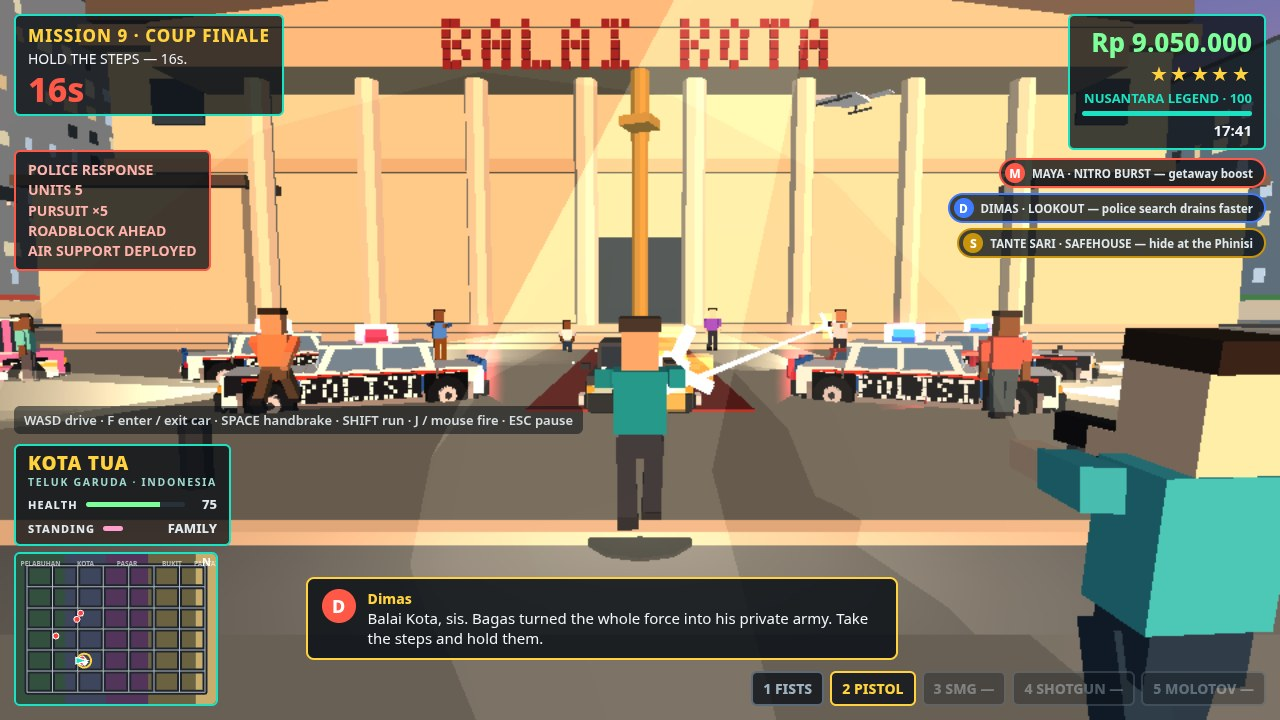
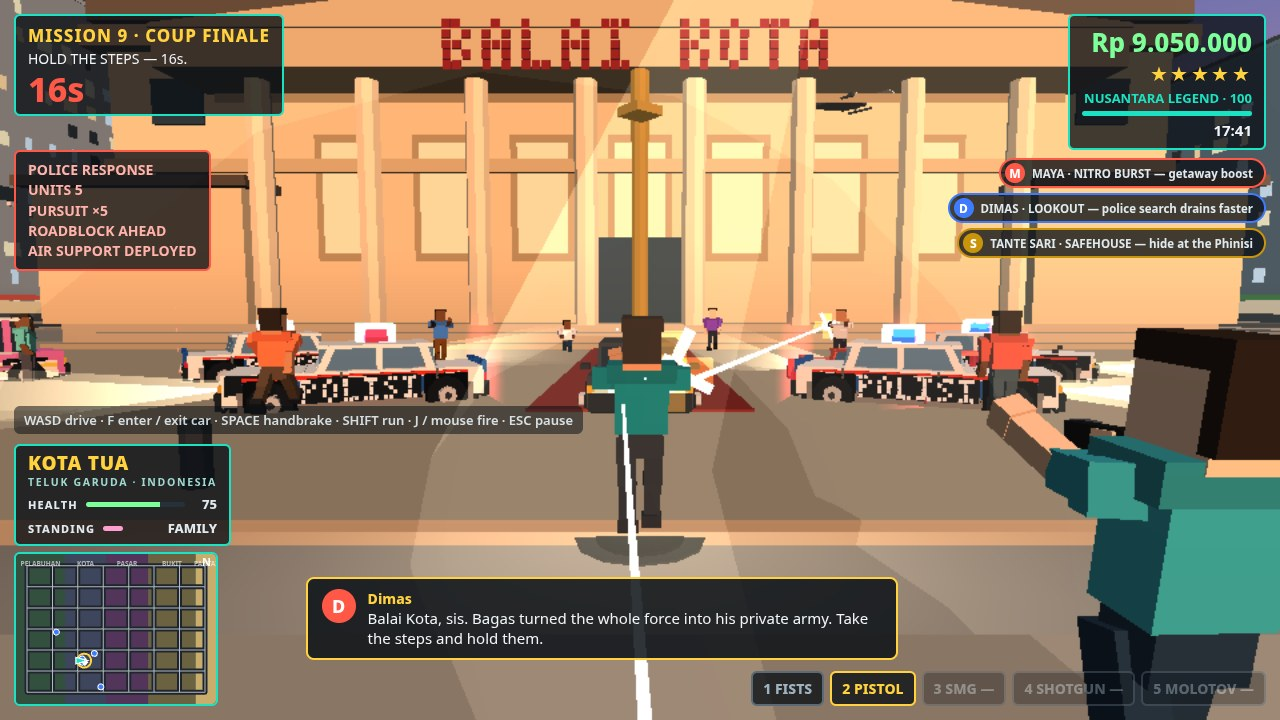
Fidelity upgrade: segmented-limb character animation (knee/elbow gait, idle breathing, recoil + hit-flinch), hemisphere/wrap lighting + ground-contact gradient in shader, two-tier blob shadows for figures and vehicles, facade depth (building plinths/cornices, Kopdes pilasters, SPPG window frames, Ba

diff --git a/game/src/people3d.js b/game/src/people3d.js
@@ -56,25 +56,42 @@ var CoralPeople = (function () {
     var body = new Baker();
     body.box(pants, { x: 0, y: 0.92, z: 0, w: 0.36, h: 0.22, d: 0.22 });                 // pelvis
     body.box(shirt, { x: 0, y: 1.28, z: 0, w: 0.44, h: 0.52, d: 0.26 });                 // torso
+    body.box(shadeRGB(hexRGB(shirt), 0.8), { x: 0, y: 1.52, z: 0, w: 0.56, h: 0.15, d: 0.29 }); // shoulder bar
+    body.box(shadeRGB(hexRGB(pants), 0.62), { x: 0, y: 1.05, z: 0, w: 0.38, h: 0.07, d: 0.24 }); // belt line
+    body.box(skin, { x: 0, y: 1.585, z: 0, w: 0.15, h: 0.09, d: 0.15 });                 // neck
     body.box(skin, { x: 0, y: 1.72, z: 0, w: 0.30, h: 0.34, d: 0.30 });                  // head
     body.box(0x2a2019, { x: 0, y: 1.92, z: 0.02, w: 0.33, h: 0.10, d: 0.33 });           // hair cap
-    var armB = new Baker();
-    armB.box(shirt, { x: 0, y: -0.16, z: 0, w: 0.13, h: 0.34, d: 0.15 });               // upper arm (sleeve)
-    armB.box(skin, { x: 0, y: -0.48, z: 0, w: 0.11, h: 0.32, d: 0.12 });                // forearm + hand
-    var legB = new Baker();
-    legB.box(pants, { x: 0, y: -0.34, z: 0, w: 0.16, h: 0.68, d: 0.18 });               // leg
-    legB.box(0x1c1e22, { x: 0, y: -0.70, z: -0.03, w: 0.17, h: 0.10, d: 0.27 });         // shoe
-    /* Pistol, baked along the arm's local -y (grip at the hand end)
-       so parenting it to the arm matrix points it wherever the arm
-       points. Only drawn while a figure aims. */
+    body.box(0x2a2019, { x: 0, y: 1.76, z: 0.145, w: 0.31, h: 0.30, d: 0.06 });          // hair back
+    /* Segmented limbs (fidelity round): upper arm pivots at the
+       shoulder, forearm at the elbow (0.30 below), thigh at the hip,
+       shin at the knee (0.40 below) — so walk cycles bend knees and
+       elbows instead of swinging stiff boards. */
+    var upArmB = new Baker();
+    upArmB.box(shirt, { x: 0, y: -0.02, z: 0, w: 0.17, h: 0.13, d: 0.18 });             // shoulder cap
+    upArmB.box(shirt, { x: 0, y: -0.17, z: 0, w: 0.13, h: 0.30, d: 0.15 });             // upper arm (sleeve)
+    var foreB = new Baker();
+    foreB.box(skin, { x: 0, y: -0.13, z: 0, w: 0.11, h: 0.26, d: 0.12 });               // forearm
+    foreB.box(skin, { x: 0, y: -0.30, z: -0.01, w: 0.12, h: 0.10, d: 0.13 });           // hand
+    var thighB = new Baker();
+    thighB.box(pants, { x: 0, y: -0.20, z: 0, w: 0.16, h: 0.40, d: 0.18 });             // thigh
+    var shinB = new Baker();
+    shinB.box(shadeRGB(hexRGB(pants), 0.92), { x: 0, y: -0.14, z: 0, w: 0.14, h: 0.28, d: 0.16 }); // shin
+    shinB.box(0x1c1e22, { x: 0, y: -0.33, z: -0.03, w: 0.17, h: 0.10, d: 0.27 });        // shoe
+    /* Pistol, baked along the FOREARM's local -y (grip at the hand
+       end) so parenting it to the forearm matrix points it wherever
+       the hand points. Only drawn while a figure aims. */
     var gunB = new Baker();
-    gunB.box(0x17181c, { x: 0, y: -0.66, z: -0.02, w: 0.09, h: 0.30, d: 0.13 });         // slide/barrel along arm dir
-    gunB.box(0x232428, { x: 0, y: -0.52, z: 0.05, w: 0.08, h: 0.16, d: 0.09 });          // grip
-    f = { body: body.build(gl), arm: armB.build(gl), leg: legB.build(gl), gun: gunB.build(gl) };
+    gunB.box(0x17181c, { x: 0, y: -0.34, z: -0.02, w: 0.09, h: 0.30, d: 0.13 });         // slide/barrel along arm dir
+    gunB.box(0x232428, { x: 0, y: -0.20, z: 0.05, w: 0.08, h: 0.16, d: 0.09 });          // grip
+    f = {
+      body: body.build(gl), upperArm: upArmB.build(gl), foreArm: foreB.build(gl),
+      thigh: thighB.build(gl), shin: shinB.build(gl), gun: gunB.build(gl)
+    };
     figureCache[key] = f;
-    if (!shadowMesh) { // one flat dark disc, reused under every figure
+    if (!shadowMesh) { // two-tier blob: soft outer ring + dark contact core, one mesh
       var sb = new Baker();
-      sb.cylinder(0x0b0d10, { x: 0, y: 0, z: 0, r: 0.46, h: 0.03, seg: 10 });
+      sb.cylinder(0x1a1c20, { x: 0, y: 0, z: 0, r: 0.56, h: 0.02, seg: 12 });
+      sb.cylinder(0x08090b, { x: 0, y: 0.006, z: 0, r: 0.38, h: 0.03, seg: 12 });
       shadowMesh = sb.build(gl);
     }
     return f;
@@ -83,6 +100,7 @@ var CoralPeople = (function () {
   function createPerson(gl, colors, x, z, heading) {
     return {
       x: x, z: z, heading: heading || 0, speed: 0, walkPhase: Math.random() * 6.28,
+      idlePhase: Math.random() * 6.28, recoilT: -1e9, flinchT: -1e9,
       vx: 0, vz: 0, down: false, downTime: 0,
       pose: 'stand', aimTarget: null, armed: false,
       parts: figureFor(gl, colors.shirt, colors.pants, colors.skin)
@@ -169,6 +187,7 @@ var CoralPeople = (function () {
        combat behaviour changes. */
     var firingNow = !!(window.CoralCombat && CoralCombat.firing);
     if (firingNow) {
+      p.recoilT = performance.now(); // render-layer recoil pulse while the trigger is held
       if (p.pose !== 'aim') { p._poseBeforeAim = p.pose; p.pose = 'aim'; }
       p._autoAim = true; p.armed = true;
       p.aimTarget = { x: p.x - Math.sin(p.heading) * 24, z: p.z - Math.cos(p.heading) * 24, y: 1.3 };
@@ -314,6 +333,23 @@ var CoralPeople = (function () {
   }
 
   /* ---------------------------------------------------------------- draw */
+  var ELBOW_Y = -0.30, KNEE_Y = -0.40; // segment joint offsets (see figureFor)
+  /* One arm chain: upper arm at the shoulder, forearm at the elbow.
+     Returns the forearm matrix (the gun parents to it). */
+  function drawArm(R, p, bodyBase, side, shX, shY, upRx, upYaw, upRz, foreRx, foreRz) {
+    var up = Mat4.multiply(bodyBase, Mat4.compose(side * shX, shY, 0, upRx, upYaw || 0, upRz || 0));
+    R.draw(p.parts.upperArm, up);
+    var fore = Mat4.multiply(up, Mat4.compose(0, ELBOW_Y, 0, foreRx || 0, 0, foreRz || 0));
+    R.draw(p.parts.foreArm, fore);
+    return fore;
+  }
+  /* One leg chain: thigh at the hip, shin at the knee. kneeBend is a
+     positive backward bend of the shin relative to the thigh. */
+  function drawLeg(R, p, base, side, hipX, hipY, thighRx, kneeBend, rz) {
+    var th = Mat4.multiply(base, Mat4.compose(side * hipX, hipY, 0, thighRx, 0, rz || 0));
+    R.draw(p.parts.thigh, th);
+    R.draw(p.parts.shin, Mat4.multiply(th, Mat4.compose(0, KNEE_Y, 0, -(kneeBend || 0), 0, 0)));
+  }
   function drawFigure(R, p) {
     if (p.down) { // tipped over: whole figure pitched flat at ground level
       R.draw(p.parts.body, Mat4.compose(p.x, 0.28, p.z, Math.PI / 2 - 0.12, p.heading, 0));
@@ -326,6 +362,18 @@ var CoralPeople = (function () {
        combat marks shooters by setting both, staging may set either. */
     if (pose === 'stand' && p.aimTarget) pose = 'aim';
     var moving = p.speed > 0.1;
+    var nowMs = performance.now();
+    /* Idle life: a standing figure breathes (slow torso pitch) and
+       shifts its weight (slow roll); phases are per-person so a crowd
+       never sways in lockstep. Amplitudes are small — life, not dance. */
+    var idle = moving ? 0 : 1;
+    var breathe = Math.sin(nowMs * 0.0016 + (p.idlePhase || 0)) * idle;
+    var sway = Math.sin(nowMs * 0.0007 + (p.idlePhase || 0) * 1.7) * idle;
+    /* Recoil / hit-flinch pulses: timestamps set by combat + the
+       player update; each is a fast exponential kick in the render
+       layer only (no state, no logic reads them back). */
+    var recoil = Math.max(0, 1 - (nowMs - (p.recoilT || -1e9)) / 170);
+    var flinch = Math.max(0, 1 - (nowMs - (p.flinchT || -1e9)) / 240);
     var bob = moving ? Math.abs(Math.sin(p.walkPhase)) * 0.05 : 0;
     var swingAmp = (p.speed > 5 ? 0.85 : 0.55) * Math.min(1, p.speed / 2.5);
     if (pose === 'stride') swingAmp = Math.max(swingAmp, 0.8); // frozen mid-step, full split
@@ -335,10 +383,23 @@ var CoralPeople = (function () {
          the split at a readable minimum in the walkPhase direction. */
       swing = (swing < 0 ? -1 : 1) * 0.62;
     }
-    var torsoPitch = 0, torsoRoll = 0, torsoYaw = 0, drop = 0;
+    /* Per-leg gait: thigh swing + knee bend peaking mid-swing-through
+       (cos of the leg's own phase), so feet lift instead of skating. */
+    var phL = p.walkPhase, phR = p.walkPhase + Math.PI;
+    var ampN = Math.min(1, swingAmp / 0.55);
+    var thighL = Math.sin(phL) * swingAmp, thighR = Math.sin(phR) * swingAmp;
+    if (pose === 'stride' && !moving) { thighL = swing; thighR = -swing * 0.85; }
+    var kneeL = Math.max(0, -Math.cos(phL)) * 0.72 * ampN + 0.04;
+    var kneeR = Math.max(0, -Math.cos(phR)) * 0.72 * ampN + 0.04;
+    if (!moving && pose !== 'stride') { kneeL = 0.05; kneeR = 0.05; }
+    /* Forward lean grows with speed: runners pitch into the stride. */
+    var runLean = Math.min(0.16, Math.max(0, p.speed - 2) * 0.022);
+    var torsoPitch = runLean + breathe * 0.018, torsoRoll = sway * 0.022, torsoYaw = 0, drop = 0;
     if (pose === 'crouch') { torsoPitch = 0.42; drop = 0.36; }
     else if (pose === 'lean') { torsoRoll = 0.30; torsoPitch = 0.10; drop = 0.06; }
     else if (pose === 'aim') { torsoPitch = 0.07; }
+    torsoPitch += flinch * 0.38 - recoil * 0.05; // hit snap + gun kick
+    torsoRoll += flinch * 0.12;
     var base = Mat4.compose(p.x, bob - drop, p.z, 0, p.heading, 0);
     /* Torso + head twist/pitch/roll on their own base so the legs
        stay planted on the heading while the upper body works. */
@@ -350,35 +411,39 @@ var CoralPeople = (function () {
     if (pose === 'aim') {
       /* Both arms up, pistol two-handed: arm geometry hangs along
          -y, so rx = PI/2 + pitch points it forward along the aim
-         direction (see aimAngles). Right arm carries the gun; the
-         left arm rises to meet it, rolled inward. Legs brace: a
-         shooter mid-advance keeps its stride, a planted one splits
-         fore/aft slightly instead of standing to attention. */
-      var armRx = Math.PI / 2 + aim.pitch;
+         direction (see aimAngles). The right forearm carries the
+         gun near-straight (a shooter's locked wrist, kicked up a
+         touch by recoil); the left forearm folds across to support
+         it. Legs brace: a shooter mid-advance keeps its stride, a
+         planted one splits fore/aft with a bent rear knee. */
+      var armRx = Math.PI / 2 + aim.pitch - recoil * 0.15;
       var brace = moving ? swing : 0.22;
-      var rightArm = Mat4.multiply(bodyBase, Mat4.compose(shX, shY, 0, armRx, aim.relYaw * 0.55, -0.06));
-      R.draw(p.parts.arm, rightArm);
-      if (p.parts.gun) R.draw(p.parts.gun, rightArm);
-      R.draw(p.parts.arm, Mat4.multiply(bodyBase, Mat4.compose(-shX, shY, 0, armRx * 0.94, aim.relYaw * 0.55, 0.38)));
-      R.draw(p.parts.leg, Mat4.multiply(base, Mat4.compose(-hipX, hipY, 0, -brace, 0, 0.03)));
-      R.draw(p.parts.leg, Mat4.multiply(base, Mat4.compose(hipX, hipY, 0, brace * 0.8, 0, -0.03)));
+      var fore = drawArm(R, p, bodyBase, 1, shX, shY, armRx, aim.relYaw * 0.55, -0.06, -0.07 - recoil * 0.1, 0);
+      if (p.parts.gun) R.draw(p.parts.gun, fore);
+      drawArm(R, p, bodyBase, -1, shX, shY, armRx * 0.94, aim.relYaw * 0.55, 0.38, 0.62, -0.42);
+      drawLeg(R, p, base, -1, hipX, hipY, -brace, 0.10, 0.03);
+      drawLeg(R, p, base, 1, hipX, hipY, brace * 0.8, moving ? kneeR : 0.34, -0.03);
       return;
     }
     if (pose === 'crouch') {
-      /* Knees bent: legs shortened (scaled at the hip) and split,
-         arms low and forward-ready. */
-      R.draw(p.parts.arm, Mat4.multiply(bodyBase, Mat4.compose(-shX, shY, 0, 0.55, 0, 0.16)));
-      R.draw(p.parts.arm, Mat4.multiply(bodyBase, Mat4.compose(shX, shY, 0, 0.55, 0, -0.16)));
-      R.draw(p.parts.leg, Mat4.multiply(base, Mat4.compose(-hipX, hipY, 0, 0.52, 0, 0.05, 1, 0.72, 1)));
-      R.draw(p.parts.leg, Mat4.multiply(base, Mat4.compose(hipX, hipY, 0, -0.38, 0, -0.05, 1, 0.72, 1)));
+      /* Real crouch: thighs fold forward, shins fold back under
+         them (deep knee bend), body dropped; arms low, elbows bent,
+         hands forward-ready. */
+      drawArm(R, p, bodyBase, -1, shX, shY, 0.55, 0, 0.16, 0.5, 0);
+      drawArm(R, p, bodyBase, 1, shX, shY, 0.55, 0, -0.16, 0.5, 0);
+      drawLeg(R, p, base, -1, hipX, hipY, 0.95, 1.05, 0.05);
+      drawLeg(R, p, base, 1, hipX, hipY, -0.30, 0.85, -0.05);
       return;
     }
-    /* stand / stride / lean: the classic swing (arms counter-swing
-       the legs), unchanged for 'stand'. */
-    R.draw(p.parts.arm, Mat4.multiply(bodyBase, Mat4.compose(-shX, shY, 0, swing, 0, 0.07)));
-    R.draw(p.parts.arm, Mat4.multiply(bodyBase, Mat4.compose(shX, shY, 0, -swing, 0, -0.07)));
-    R.draw(p.parts.leg, Mat4.multiply(base, Mat4.compose(-hipX, hipY, 0, -swing, 0, 0)));
-    R.draw(p.parts.leg, Mat4.multiply(base, Mat4.compose(hipX, hipY, 0, swing, 0, 0)));
+    /* stand / stride / lean: arms counter-swing the legs with a
+       natural elbow bend that deepens as the arm swings back;
+       a flinch throws both forearms up. */
+    var elbL = 0.28 + Math.max(0, -Math.sin(phL)) * 0.3 + flinch * 0.7;
+    var elbR = 0.28 + Math.max(0, -Math.sin(phR)) * 0.3 + flinch * 0.7;
+    drawArm(R, p, bodyBase, -1, shX, shY, swing + breathe * 0.03, 0, 0.07 + sway * 0.02 + flinch * 0.3, elbL, 0);
+    drawArm(R, p, bodyBase, 1, shX, shY, -swing - breathe * 0.03, 0, -0.07 - sway * 0.02 - flinch * 0.3, elbR, 0);
+    drawLeg(R, p, base, -1, hipX, hipY, -thighL, kneeL, 0);
+    drawLeg(R, p, base, 1, hipX, hipY, -thighR, kneeR, 0);
   }
   function draw(R, person) { drawFigure(R, person); }
   function drawCrowd(R, crowd, camX, camZ) {

diff --git a/game/src/city3d.js b/game/src/city3d.js
@@ -244,6 +244,8 @@ function bakeHeliInto(b, colorHex) {
   b.box(col, { x: 0, y: 0, z: 0.3, w: 1.7, h: 1.55, d: 3.1, top: shadeRGB(hexRGB(col), 1.07) });
   b.prism(col, { x: 0, y: -0.1, z: -1.95, w: 1.55, h: 1.15, d: 1.1, h2: 0.35 });
   b.panel(glass, { x: 0, y: 0.28, z: -2.42, w: 1.3, h: 0.78, d: 0.08, rx: -0.25 });
+  b.panel(col, { x: 0, y: 0.28, z: -2.44, w: 0.09, h: 0.8, d: 0.06, rx: -0.25 }); // windscreen centre post
+  b.box(dark, { x: 0, y: -0.86, z: 0.3, w: 1.45, h: 0.22, d: 2.9 });              // dark belly pan (grounds the airframe)
   b.panel(0xff7847, { x: 0, y: -0.45, z: -0.9, w: 1.72, h: 0.3, d: 1.9 }); // coral cheatline
   b.box(dark, { x: 0, y: 0.12, z: 3.6, w: 0.34, h: 0.34, d: 3.6 });          // tail boom
   b.panel(col, { x: 0, y: 0.55, z: 5.35, w: 0.1, h: 1.15, d: 0.62 });        // tail fin
@@ -558,6 +560,12 @@ function buildCity(gl) {
     var wall = pick(pal.walls);
     var b = bk(cx, cz);
     b.box(wall, { x: cx, y: h / 2, z: cz, w: w, h: h, d: d, top: pal.roof });
+    /* Facade depth (fidelity round): a darker PLINTH band proud of
+       the walls grounds the mass and reads as a shadow gap at street
+       level; a CORNICE ledge just under the roofline throws a hard
+       horizontal shade line that separates wall from roof at range. */
+    b.box(shadeRGB(hexRGB(wall), 0.52), { x: cx, y: 0.55, z: cz, w: w + 0.35, h: 1.1, d: d + 0.35, top: shadeRGB(hexRGB(wall), 0.68) });
+    b.box(shadeRGB(hexRGB(wall), 1.1), { x: cx, y: h - 0.28, z: cz, w: w + 0.3, h: 0.55, d: d + 0.3, top: pal.roof });
     // rooftop variation: parapet rim, water tank, or plant boxes
     var roofV = rnd();
     if (h >= 9 && roofV < 0.34) { // parapet rim + a tank or plant cluster
@@ -781,6 +789,17 @@ function buildCity(gl) {
       b.panel(0x7a1216, { x: cx - w / 2 - 0.28, y: 2.25, z: cz + oz + 0.7, w: 0.08, h: 0.18, d: 0.9 });
       b.panel(0x8f1a1a, { x: cx - w / 2 - 0.27, y: 1.8, z: cz + oz, w: 0.06, h: 2.7, d: 0.1 });
     });
+    /* Fidelity round: maroon pilaster strips in the gaps between
+       the red doors + a dark frame border behind each door, so the
+       flat white front breaks into bays with real depth; plus a low
+       contact-shadow strip where the wall meets the forecourt. */
+    [-6.6, -3.4, -0.2, 3.0, 6.2].forEach(function (oz) {
+      b.panel(0x6e3a34, { x: cx - w / 2 - 0.2, y: 1.95, z: cz + oz, w: 0.14, h: 3.3, d: 0.42 });
+    });
+    [-8.2, -5.0, -1.8, 1.4, 4.6].forEach(function (oz) {
+      b.panel(0x5d1512, { x: cx - w / 2 - 0.13, y: 1.8, z: cz + oz, w: 0.1, h: 3.15, d: 3.15 });
+    });
+    b.box(0x37312b, { x: cx - w / 2 - 0.45, y: 0.1, z: cz, w: 0.9, h: 0.2, d: d - 0.8 });
     // grey sign panel, south section: red house glyph + two-tone text.
     // F-B LEGIBILITY REBUILD: the old panel was 4.4 m wide with px 0.11-
     // 0.12 white letters on mid-grey 0x939aa1 — a smear at cover distance.
@@ -830,9 +849,19 @@ function buildCity(gl) {
     b.panel(BLUE, { x: cx, y: 2.3, z: cz + d / 2 + 0.1, w: w - 0.4, h: 4.6, d: 0.22 });
     // dark glass windows + centre door on the west face
     [-6.5, 3.4, 6.8].forEach(function (oz) {
+      /* Fidelity round: a white frame border proud of the wall but
+         recessed behind the glass, so each window reads as a framed
+         opening instead of a dark sticker on a flat wall. */
+      b.panel(0xe8ecec, { x: cx - w / 2 - 0.05, y: 2.0, z: cz + oz, w: 0.1, h: 1.74, d: 3.44 });
       b.panel(GLASS, { x: cx - w / 2 - 0.07, y: 2.0, z: cz + oz, w: 0.14, h: 1.5, d: 3.2 });
       b.panel(0xf5f7f5, { x: cx - w / 2 - 0.09, y: 2.0, z: cz + oz, w: 0.1, h: 1.5, d: 0.12 });
     });
+    // blue corner pilasters on the west face + a blue fascia trim
+    // under the eaves slab, tying the roof to the banded walls
+    [-d / 2 + 0.5, d / 2 - 0.5].forEach(function (oz) {
+      b.panel(BLUE, { x: cx - w / 2 - 0.09, y: 2.3, z: cz + oz, w: 0.18, h: 4.6, d: 0.55 });
+    });
+    b.panel(ROOFBLUE, { x: cx - w / 2 - 0.35, y: 4.82, z: cz, w: 0.14, h: 0.34, d: d + 1.6 });
     b.panel(GLASS, { x: cx - w / 2 - 0.07, y: 1.55, z: cz, w: 0.14, h: 2.5, d: 2.2 });
     // Z-free second line on the wall above the windows
     signText(b, 'SATUAN PELAYANAN', { x: cx - w / 2 - 0.2, y: 3.72, z: cz, nx: -1, nz: 0, px: 0.14, color: 0x145a9e, emis: 0.15, board: null });
@@ -1049,6 +1078,15 @@ function buildCity(gl) {
       b.cylinder(0xdfd2b2, { x: -186.8, y: 6.9, z: cz - 17.5 + co * 5, r: 0.55, h: 11.4, seg: 8 });
     }
     b.box(TRIM, { x: -186.8, y: 13.1, z: cz, w: 3.4, h: 1.6, d: 42 });
+    /* Fidelity round: recessed moulding panels on the west wall in
+       the bays between the columns + a shadow band directly under
+       the entablature, so the grand flat face gains panel depth and
+       a shade line instead of reading as one cream slab. */
+    for (var bp2 = 0; bp2 < 7; bp2++) {
+      b.panel(0x9a8a68, { x: -183.55, y: 7.6, z: cz - 15 + bp2 * 5, w: 0.1, h: 6.4, d: 3.3 });
+      b.panel(0xe6dcc0, { x: -183.6, y: 7.6, z: cz - 15 + bp2 * 5, w: 0.08, h: 5.6, d: 2.6 });
+    }
+    b.panel(0x8a7c5c, { x: -185.2, y: 12.15, z: cz, w: 0.12, h: 0.55, d: 41 });
     b.prism(TRIM, { x: -186.8, y: 15.2, z: cz - 10.5, w: 3.6, h: 2.6, d: 21, h2: 0.2, ry: Math.PI });
     b.prism(TRIM, { x: -186.8, y: 15.2, z: cz + 10.5, w: 3.6, h: 2.6, d: 21, h2: 0.2 });
     signText(b, 'BALAI KOTA', { x: -188.7, y: 13.1, z: cz, nx: -1, nz: 0, px: 0.42, color: 0x8a1a1a, emis: 0.35, board: null });

diff --git a/game/src/vehicles3d.js b/game/src/vehicles3d.js
@@ -52,7 +52,7 @@ var CoralVehicles = (function () {
      dust puffs. All seeded/fixed — no Math.random, no time source
      except the pre-existing police light-bar pulse. */
   var wheelMesh = null, brakeLampMesh = null, brakeGlowMesh = null,
-      brakePoolMesh = null, puffMesh = null;
+      brakePoolMesh = null, puffMesh = null, carShadowMesh = null;
 
   /* One wheel (tyre + hub both sides), centred at the wheel centre,
      axis along X — drawn per wheel so the FRONT pair can yaw with
@@ -199,6 +199,22 @@ var CoralVehicles = (function () {
     var trim = shadeRGB(hexRGB(col), 1.3);
     b.panel(trim, { x: -d.w / 2 - 0.014, y: bodyY + d.bh * 0.22, z: 0, w: 0.03, h: 0.055, d: d.l * 0.8 });
     b.panel(trim, { x: d.w / 2 + 0.014, y: bodyY + d.bh * 0.22, z: 0, w: 0.03, h: 0.055, d: d.l * 0.8 });
+    /* cabin depth + brightwork (fidelity round): a rear screen so
+       the glasshouse wraps the cabin instead of ending at the B
+       pillars, chrome bumper strips front/rear, and roof rails on
+       the tall variants — silhouette detail that reads at range. */
+    if (variant !== 'bajaj' && variant !== 'pickup') {
+      var cabZ2 = variant === 'suv' ? 0.15 : (variant === 'angkot' ? 0.05 : 0.28);
+      var cabD2 = variant === 'suv' ? d.l * 0.52 : (variant === 'angkot' ? d.l * 0.76 : d.l * 0.44);
+      b.panel(glassTint, { x: 0, y: glassTop + d.ch * 0.42, z: cabZ2 + cabD2 / 2 + 0.02, w: d.w * 0.8, h: d.ch * 0.72, d: 0.04, rx: -0.3, emis: 0.18 });
+    }
+    b.panel(0xd8dde2, { x: 0, y: 0.50, z: -d.l / 2 - 0.10, w: d.w * 0.9, h: 0.07, d: 0.05, emis: 0.12 });
+    b.panel(0xd8dde2, { x: 0, y: 0.50, z: d.l / 2 + 0.10, w: d.w * 0.9, h: 0.07, d: 0.05, emis: 0.12 });
+    if (variant === 'suv' || variant === 'angkot') {
+      var railY = glassTop + d.ch + 0.03;
+      b.panel(0x22262c, { x: -d.w * 0.3, y: railY, z: 0.1, w: 0.07, h: 0.07, d: d.l * 0.42 });
+      b.panel(0x22262c, { x: d.w * 0.3, y: railY, z: 0.1, w: 0.07, h: 0.07, d: d.l * 0.42 });
+    }
     /* wheel arches: dark open cylinders a touch wider than the tyres,
        so each wheel sits in a visible arch shadow; hubcaps (base mesh)
        still poke out past them */
@@ -291,6 +307,13 @@ var CoralVehicles = (function () {
     brakeGlowMesh = buildDiscSprite(gl, [1.0, 0.16, 0.20], 0.85);
     brakePoolMesh = buildBeamPoolRed(gl);
     puffMesh = buildPuff(gl);
+    /* Ground contact shadow: two-tier unit disc (soft outer ring +
+       dark core) in ONE mesh, scaled per car in draw() — grounds
+       every vehicle the way the figure blob grounds pedestrians. */
+    var csb = new Baker();
+    csb.cylinder(0x1b1d21, { x: 0, y: 0, z: 0, r: 1.0, h: 0.02, seg: 14 });
+    csb.cylinder(0x0a0b0d, { x: 0, y: 0.006, z: 0, r: 0.78, h: 0.03, seg: 14 });
+    carShadowMesh = csb.build(gl);
   }
   /* Red variant of the beam pool (radial disc in XZ, unit radius). */
   function buildBeamPoolRed(gl) {
@@ -439,11 +462,14 @@ var CoralVehicles = (function () {
 
   function draw(R, car) {
     var model = Mat4.compose(car.x, 0, car.z, 0, car.heading, 0);
-    R.draw(car.mesh, model);
     var gl = R.gl;
-    if (!gl) return;
-    R.draw(overlayFor(gl, car.variant, car.color), model);
+    if (!gl) { R.draw(car.mesh, model); return; }
     ensureFx(gl);
+    /* contact shadow first (under the body, above the road) */
+    var dd = DIMS[car.variant] || DIMS.sedan;
+    R.draw(carShadowMesh, Mat4.compose(car.x, 0.055, car.z, 0, car.heading, 0, dd.w / 2 + 0.38, 1, dd.l / 2 + 0.34), { noDepthWrite: true });
+    R.draw(car.mesh, model);
+    R.draw(overlayFor(gl, car.variant, car.color), model);
     /* F-FIX (coordinator): near-field gate for the Fase 4D extras.
        window.__camFocus is published by main3d each frame (the look
        target: player / player car / staged tableau). Within 45 m

diff --git a/game/src/combat3d.js b/game/src/combat3d.js
@@ -145,6 +145,7 @@ var CoralCombat = (function () {
      seconds (refreshed by repeat fire). Decay lives in update(). */
   function markAiming(ped, tx, tz) {
     if (!ped) return;
+    ped.recoilT = performance.now(); // render-layer gun kick for this shot
     ped.pose = 'aim';
     ped.aimTarget = { x: tx, z: tz, y: 1.25 };
     for (var i = 0; i < aimMarks.length; i++) {
@@ -155,6 +156,7 @@ var CoralCombat = (function () {
 
   function fire() {
     var mara = Coral3D.mara;
+    mara.recoilT = performance.now(); // render-layer gun kick
     var fx = -Math.sin(mara.heading), fz = -Math.cos(mara.heading);
     if (window.CoralPolice) CoralPolice.reportCrime('shot', { x: mara.x, z: mara.z });
     var bestT = 40, bestPed = null, bestCar = null;
@@ -231,6 +233,7 @@ var CoralCombat = (function () {
     return best;
   }
   function damage(n) {
+    if (window.Coral3D && Coral3D.mara) Coral3D.mara.flinchT = performance.now(); // hit reaction, visual only
     var shooter = attributeShooter();
     if (shooter && window.Coral3D && Coral3D.mara) {
       var mara = Coral3D.mara;

diff --git a/game/src/police3d.js b/game/src/police3d.js
@@ -333,7 +333,11 @@ var CoralPolice = (function () {
     poolMesh = buildPool(gl);
     bucketMesh = buildBucket(gl);
     var cb = new Baker();
-    cb.cylinder(0x23272e, { x: 0, y: 0, z: 0, r: 0.05, h: 1, seg: 6, emis: 0.05 });
+    /* Cable spans local y 0..1 (base at the bucket rim, tip at the
+       heli belly) — NOT centred: the old centred unit cylinder was
+       scaled by cLen around the rim, so only its upper half reached
+       toward the belly and the top ~half of the run never rendered. */
+    cb.cylinder(0x23272e, { x: 0, y: 0.5, z: 0, r: 0.055, h: 1, seg: 6, emis: 0.05 });
     cableMesh = cb.build(gl);
     streamMesh = buildStream(gl, false);
     streamCoreMesh = buildStream(gl, true);

diff --git a/game/src/gl.js b/game/src/gl.js
@@ -252,8 +252,10 @@ var CoralGL = (function () {
     '    col = mix(uSkyHorizon, uSkyTop, t);',
     '  } else {',
     '    vec3 n = normalize(vNormal);',
-    '    float diff = max(dot(n, uSunDir), 0.0);',
-    '    vec3 lit = vColor * (uAmbient + uSunColor * diff);',
+    '    float diff = clamp((dot(n, uSunDir) + 0.30) / 1.30, 0.0, 1.0);',
+    '    vec3 amb = uAmbient * (0.74 + 0.46 * n.y);',
+    '    float ao = 0.87 + 0.13 * clamp(vLocal.y * 0.20, 0.0, 1.0);',
+    '    vec3 lit = vColor * (amb + uSunColor * diff) * ao;',
     '    vec3 glow = vColor * uEmisMul;',
     '    col = mix(lit, glow, clamp(vEmis, 0.0, 1.0));',
     '    float f = smoothstep(uFogNear, uFogFar, vDist);',
